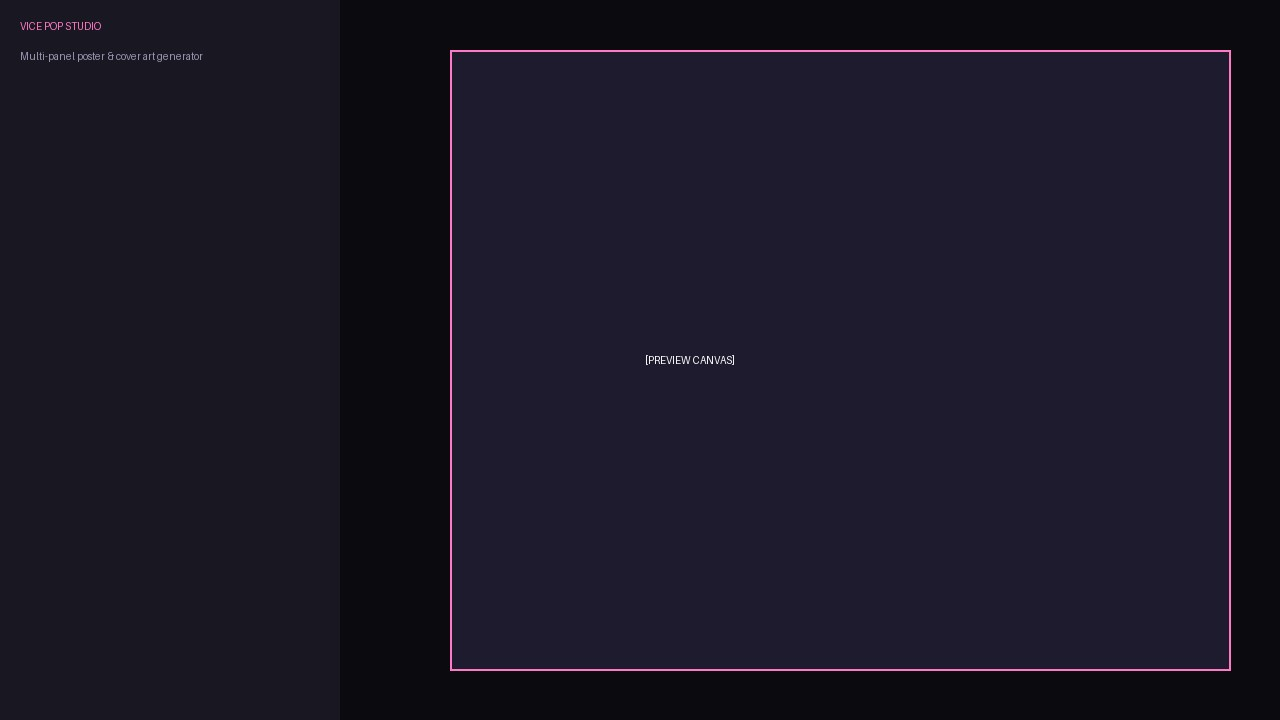
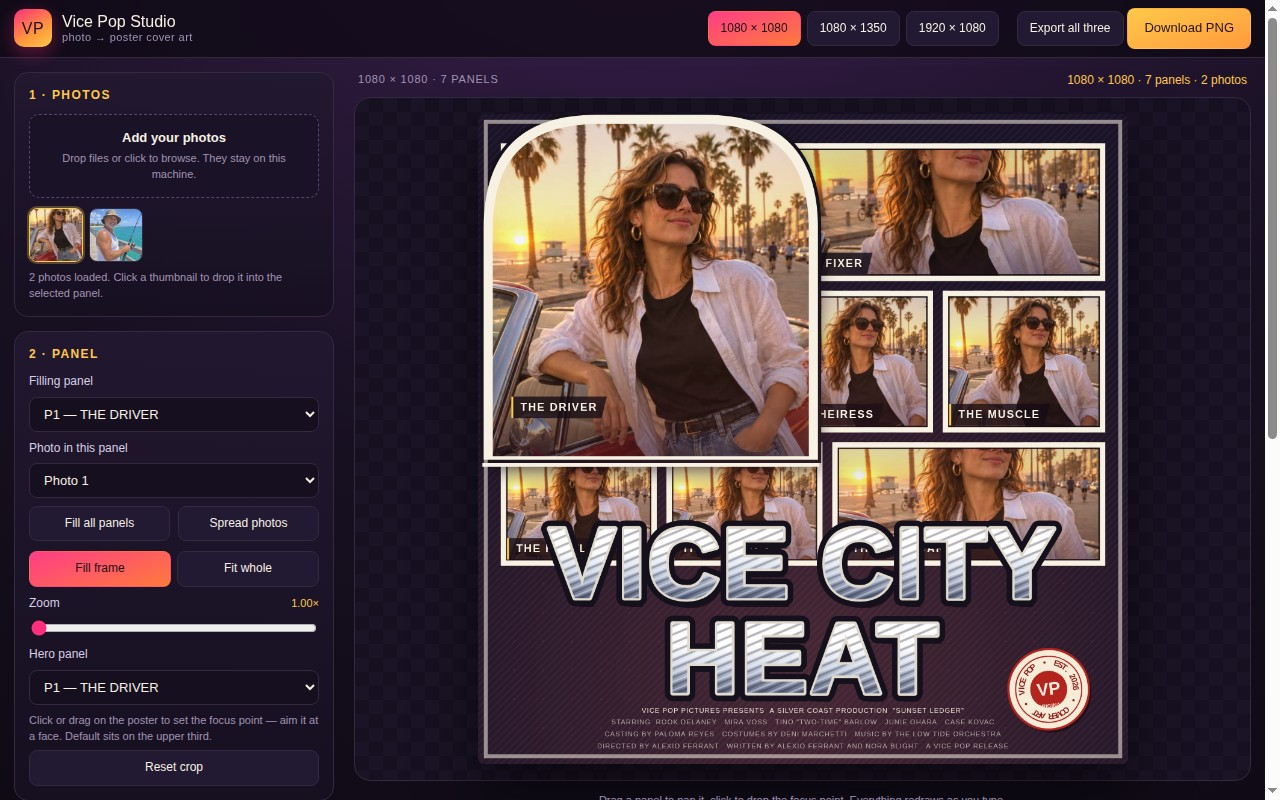
feat: replace fake screenshots with real app renders and clean up generate_screenshots.py

diff --git a/app/src/shots.js b/app/src/shots.js
@@ -5,7 +5,7 @@
 // Both accept `caption`, `grade`, `format` and an optional comma-separated
 // `photos` list of sample names. window.__shotReady flips once the paint is done.
 
-const SAMPLE_NAMES = ['boulevard', 'pier', 'marina', 'skyline', 'nightclub'];
+const SAMPLE_NAMES = ['boulevard', 'pier'];
 
 function loadSample(name) {
   return new Promise((resolve, reject) => {
@@ -18,7 +18,8 @@ function loadSample(name) {
 
 /** Prepares a scene and paints it, returning a promise that settles after paint. */
 export async function runShot(shot, query, ui) {
-  const names = (query.get('photos') || 'boulevard,pier,marina,skyline,nightclub').split(',');
+  document.body.classList.add(`shot-${shot}`);
+  const names = (query.get('photos') || 'boulevard,pier').split(',');
   const samples = [];
   for (const name of names) {
     try {

diff --git a/app/src/main.js b/app/src/main.js
@@ -430,6 +430,11 @@ canvas.addEventListener('pointercancel', endPointer);
 applyFormat('square');
 drawThumbs();
 
+window.__verifyExport = () => FORMATS.map(f => {
+  const c = makePosterCanvas(f);
+  return { id: f.id, width: c.width, height: c.height };
+});
+
 const shot = new URLSearchParams(location.search).get('shot');
 if (shot) {
   runShot(shot, new URLSearchParams(location.search), { state, photos, render, applyFormat, assignPhoto, syncPanelDefaults, buildPanelPicker, buildRoleInputs, refreshPanelControls, drawThumbs }).catch((err) => {
